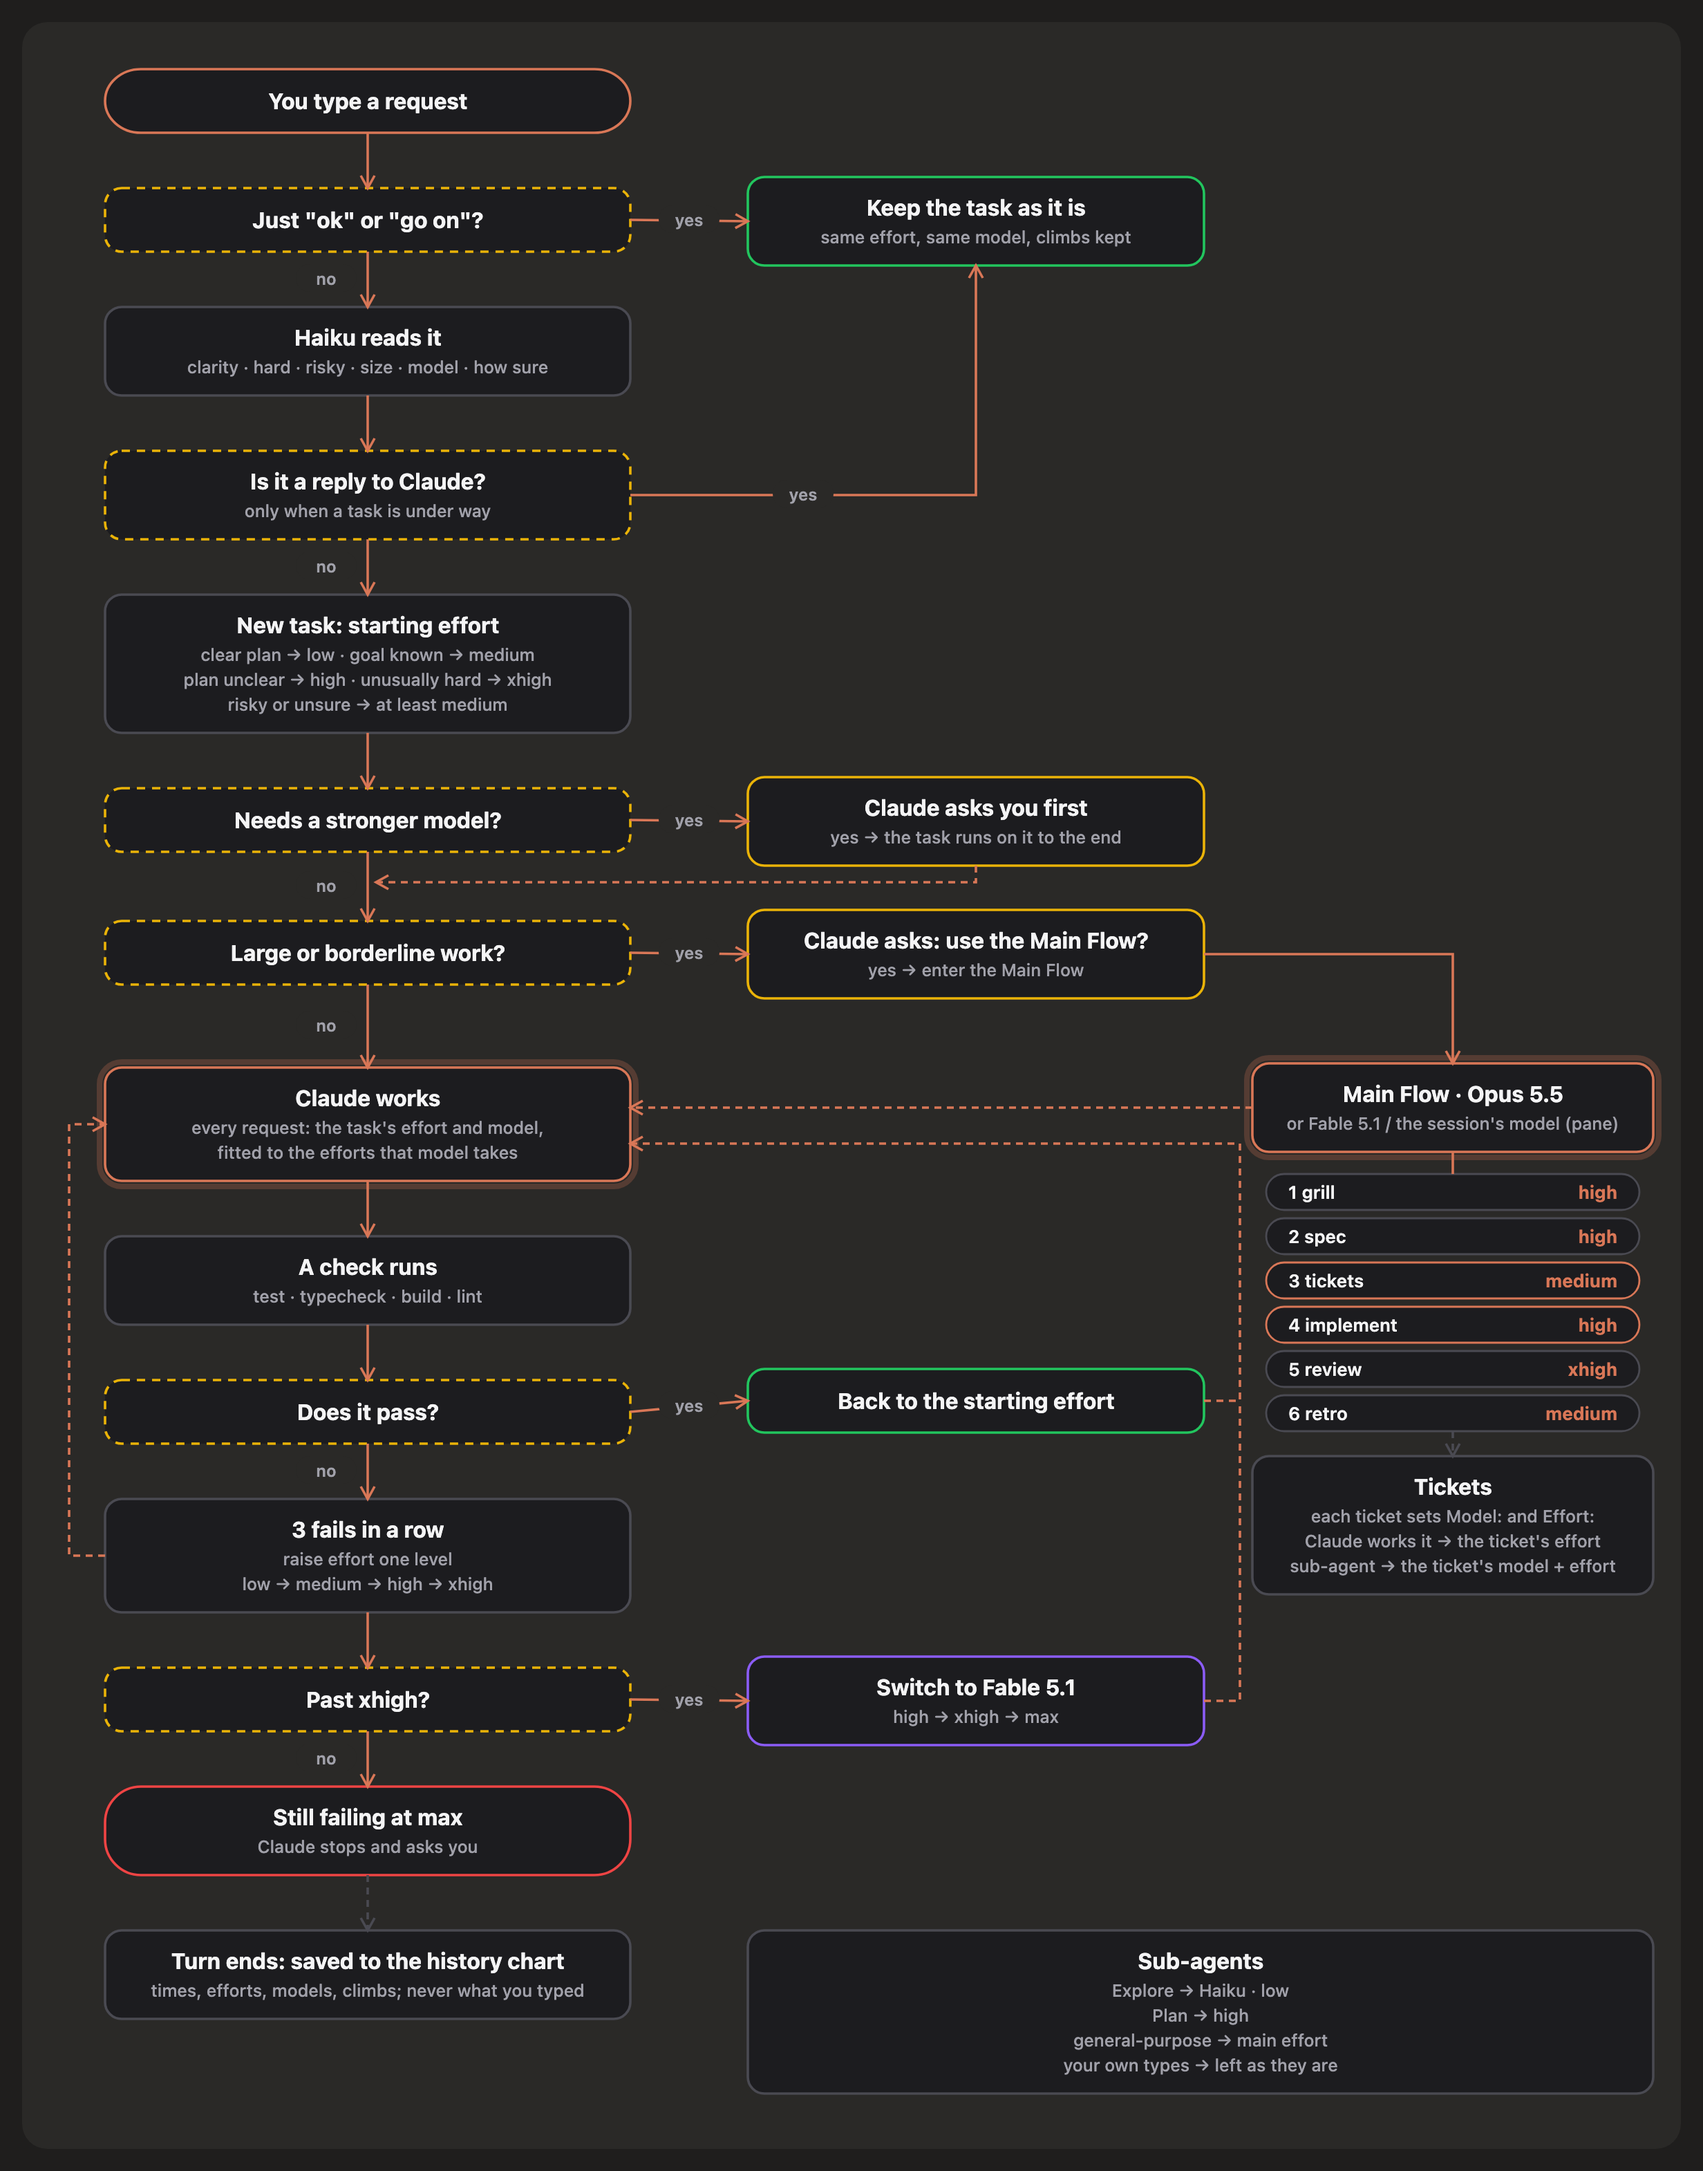
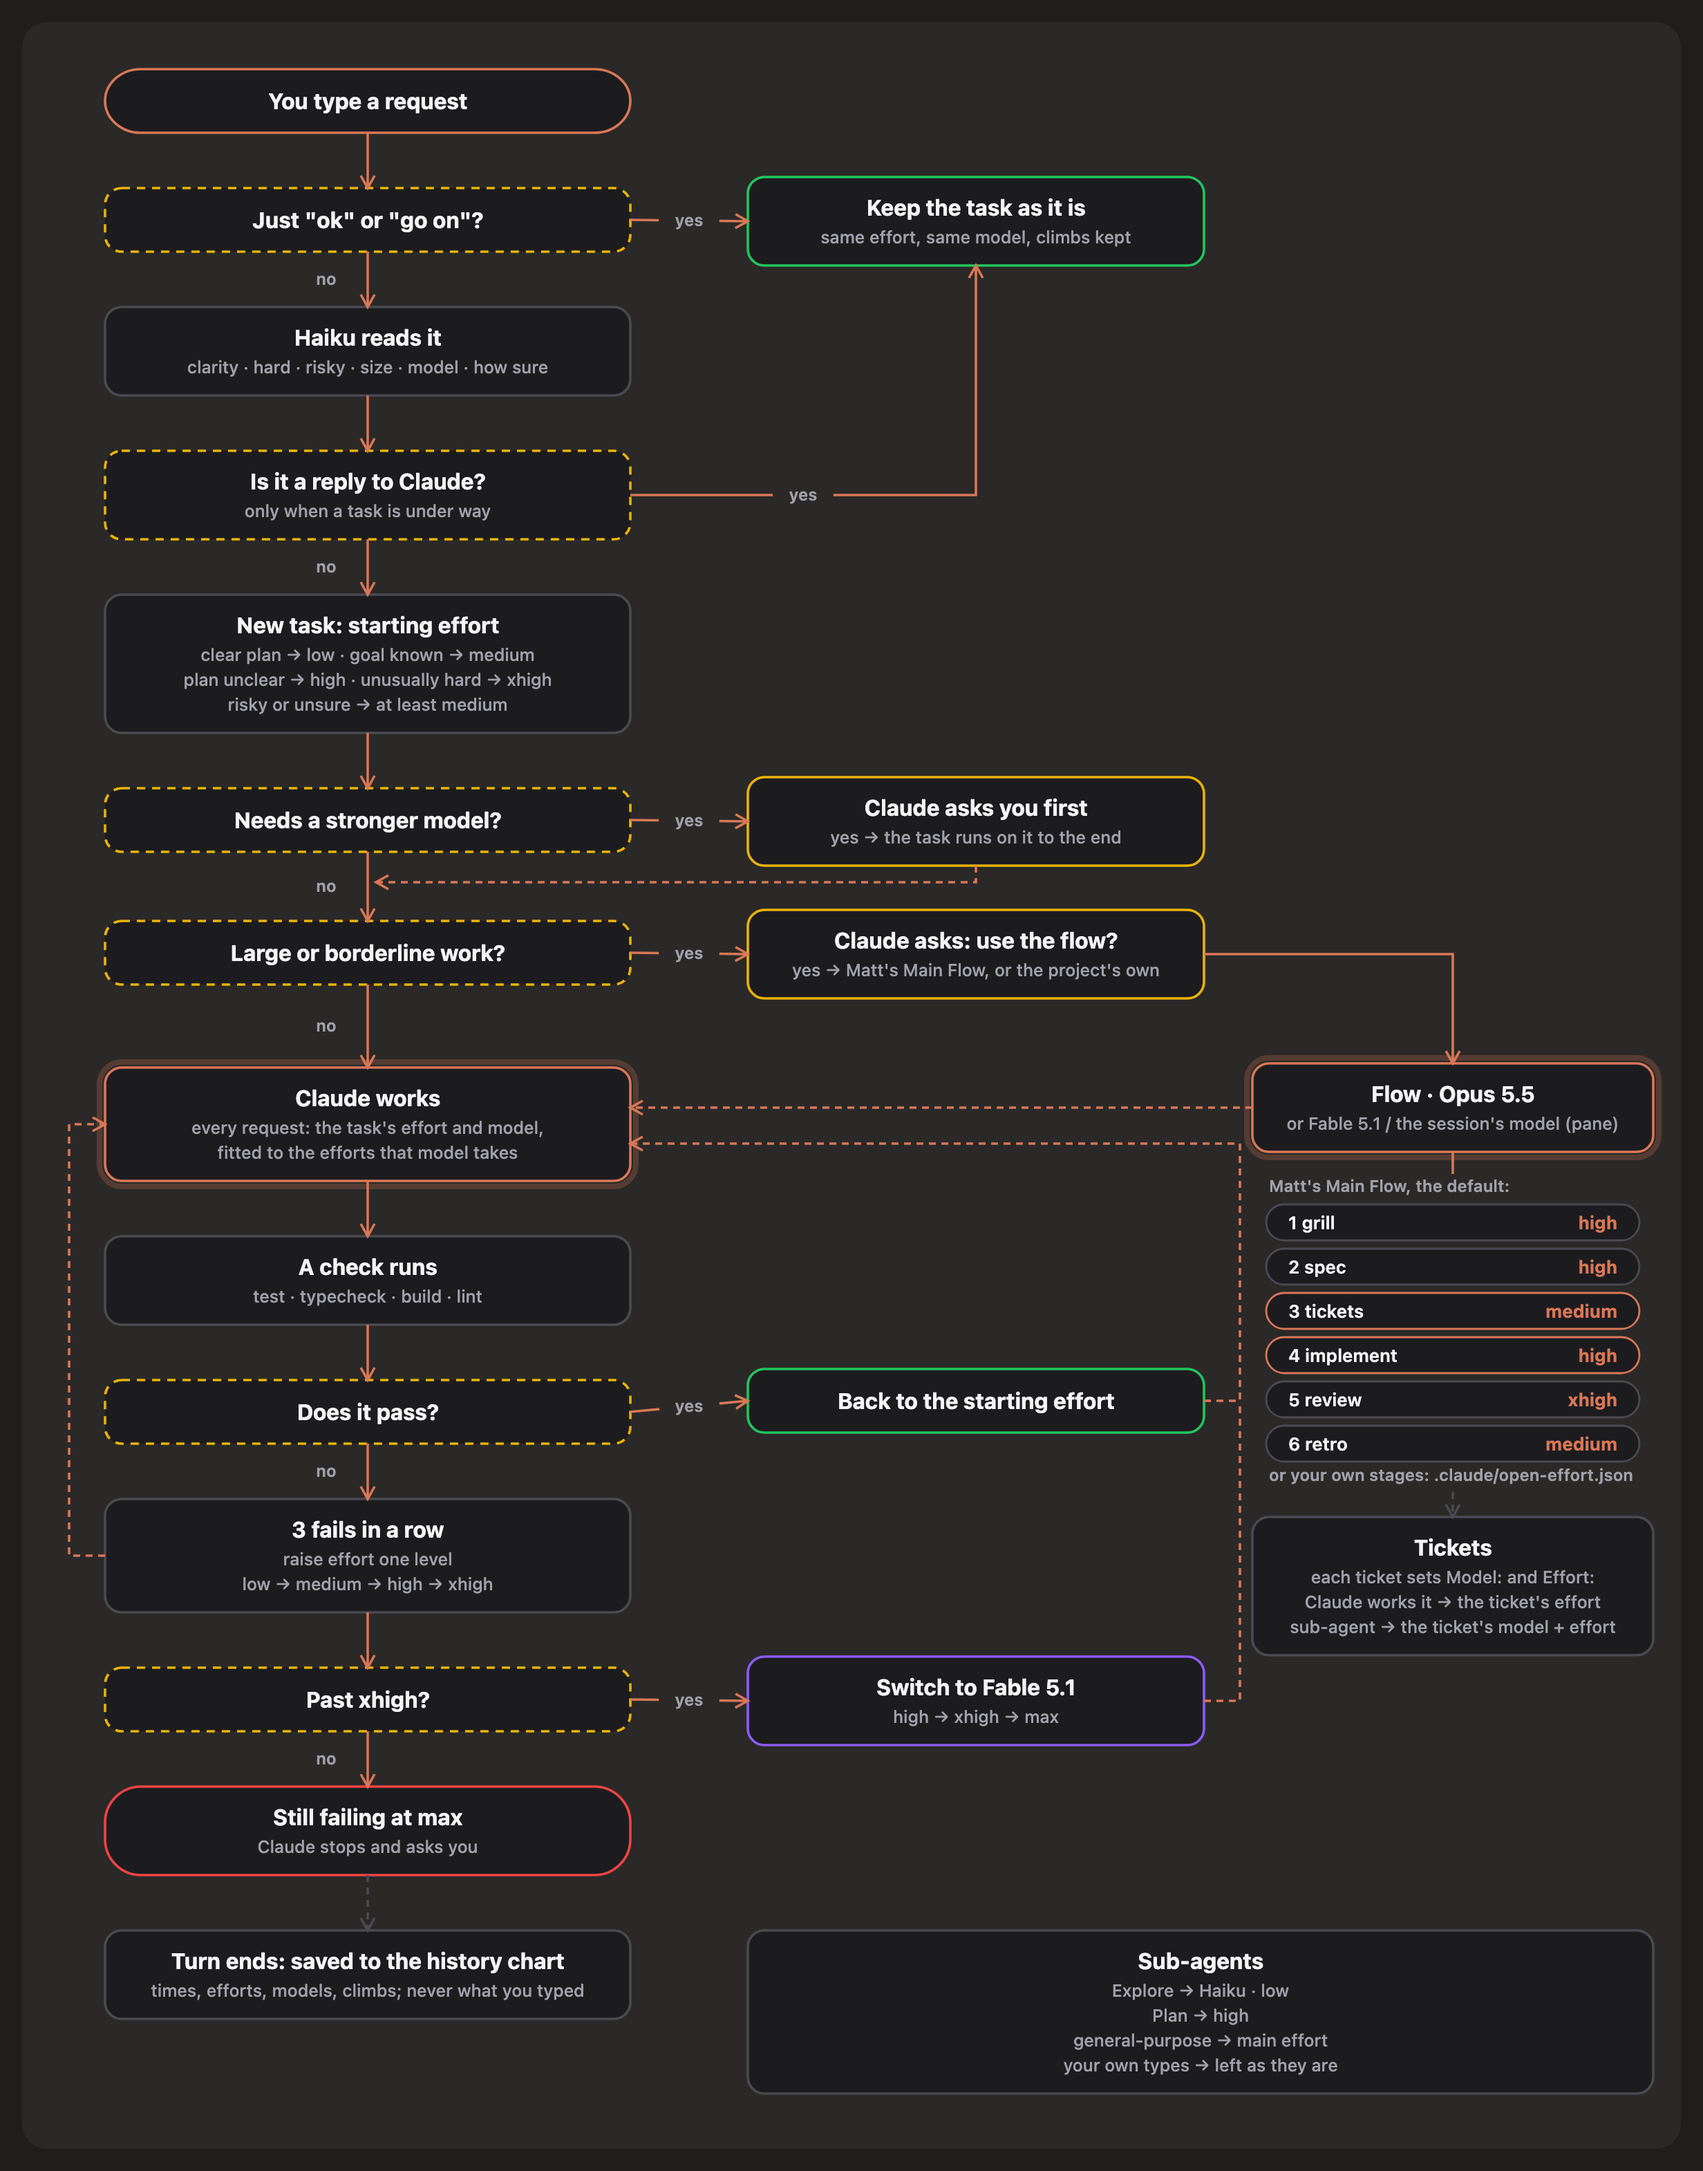
docs: the flow picture shows a project's own flow beside Matt's Main Flow (#17)
## What
- The How it works picture, in English and Thai: Claude asks about "the
flow" (Matt's Main Flow, or the project's own); the flow box is "Flow ·
Opus 5.5"; the stage list is marked as Matt's, the default, with a line
for your own stages in `.claude/open-effort.json`.
- The pictures' alt text in both READMEs says the same.

## Checked
The picture was rebuilt from its source and came out byte-identical to
the committed one before these edits; only the flow column's words
changed. `claude plugin validate .` passes.

🤖 Generated with [Claude Code](https://claude.com/claude-code)

Changed region(s): [[0.75, 0.4994, 0.9688, 0.749], [0.4688, 0.4057, 0.6562, 0.4682]]

diff --git a/README.th.md b/README.th.md
@@ -90,7 +90,7 @@ claude plugin marketplace add JakkapatB/open-effort && claude plugin install ope
 ## หลักการทำงาน
 
 <p align="center">
-  <img src="https://raw.githubusercontent.com/JakkapatB/open-effort/main/docs/images/flow-th.png" width="900" alt="ภาพรวมทั้งหมด: ข้อความที่ต่องานเดิมใช้งานเดิมต่อ ส่วนงานใหม่ Haiku จะดูแล้วเลือก effort เริ่มต้น Claude ถามเรื่องโมเดลและ Main Flow ก่อน แล้วเริ่มทำงาน test ผ่านกลับไป effort เริ่มต้น ไม่ผ่านติดกัน 3 ครั้งเพิ่มขึ้นหนึ่งระดับ เกิน xhigh เปลี่ยนไป Fable 5.1 และถ้ายังไม่ผ่านที่ max Claude หยุดทำแล้วถามคุณ พร้อม Main Flow, ticket, sub-agent และประวัติ">
+  <img src="https://raw.githubusercontent.com/JakkapatB/open-effort/main/docs/images/flow-th.png" width="900" alt="ภาพรวมทั้งหมด: ข้อความที่ต่องานเดิมใช้งานเดิมต่อ ส่วนงานใหม่ Haiku จะดูแล้วเลือก effort เริ่มต้น Claude ถามเรื่องโมเดลและ flow ก่อน (Main Flow ของ Matt หรือ flow ของโปรเจกต์จาก .claude/open-effort.json) แล้วเริ่มทำงาน test ผ่านกลับไป effort เริ่มต้น ไม่ผ่านติดกัน 3 ครั้งเพิ่มขึ้นหนึ่งระดับ เกิน xhigh เปลี่ยนไป Fable 5.1 และถ้ายังไม่ผ่านที่ max Claude หยุดทำแล้วถามคุณ พร้อม stage ของ flow (ค่าเริ่มต้นเป็นของ Matt), ticket, sub-agent และประวัติ">
 </p>
 
 ### ลำดับการเพิ่ม effort

diff --git a/README.md b/README.md
@@ -91,7 +91,7 @@ When a test run fails, the effort card shows **Check failed 1/3**, then **2/3**.
 ## How it works
 
 <p align="center">
-  <img src="https://raw.githubusercontent.com/JakkapatB/open-effort/main/docs/images/flow-en.png" width="900" alt="The whole flow: a request is kept in the task or read by Haiku; a new task gets a starting effort, Claude asks about a stronger model and the Main Flow, Claude works, a passing check returns to the starting effort, three failures raise it one level, past xhigh it switches to Fable 5.1, and still failing at max Claude stops and asks you; the Main Flow, tickets, sub-agents and history are shown beside it">
+  <img src="https://raw.githubusercontent.com/JakkapatB/open-effort/main/docs/images/flow-en.png" width="900" alt="The whole flow: a request is kept in the task or read by Haiku; a new task gets a starting effort, Claude asks about a stronger model and the flow (Matt's Main Flow, or the project's own from .claude/open-effort.json), Claude works, a passing check returns to the starting effort, three failures raise it one level, past xhigh it switches to Fable 5.1, and still failing at max Claude stops and asks you; the flow's stages (Matt's by default), tickets, sub-agents and history are shown beside it">
 </p>
 
 ### The ladder
